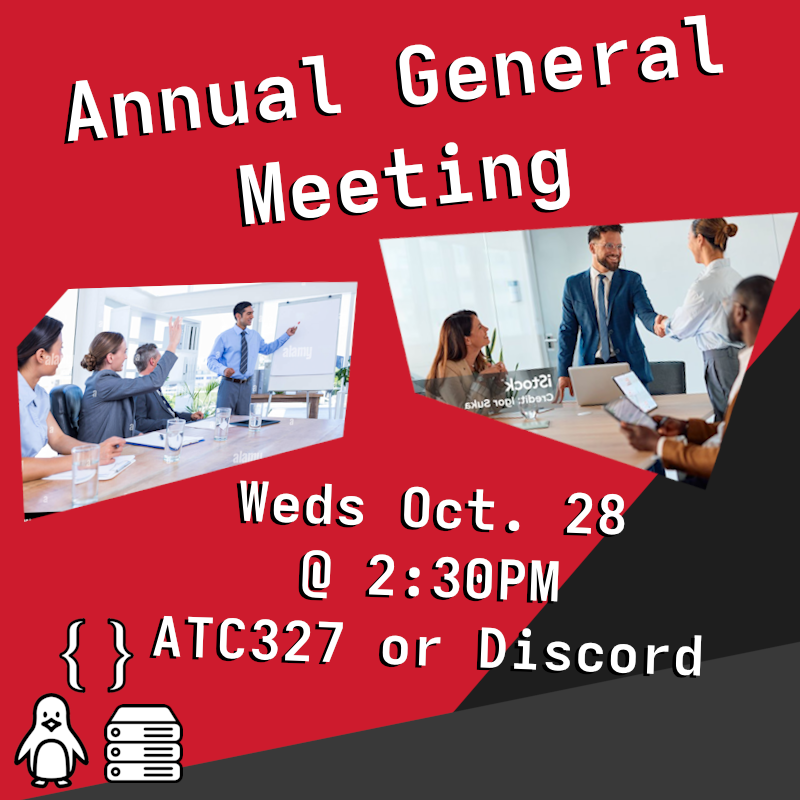
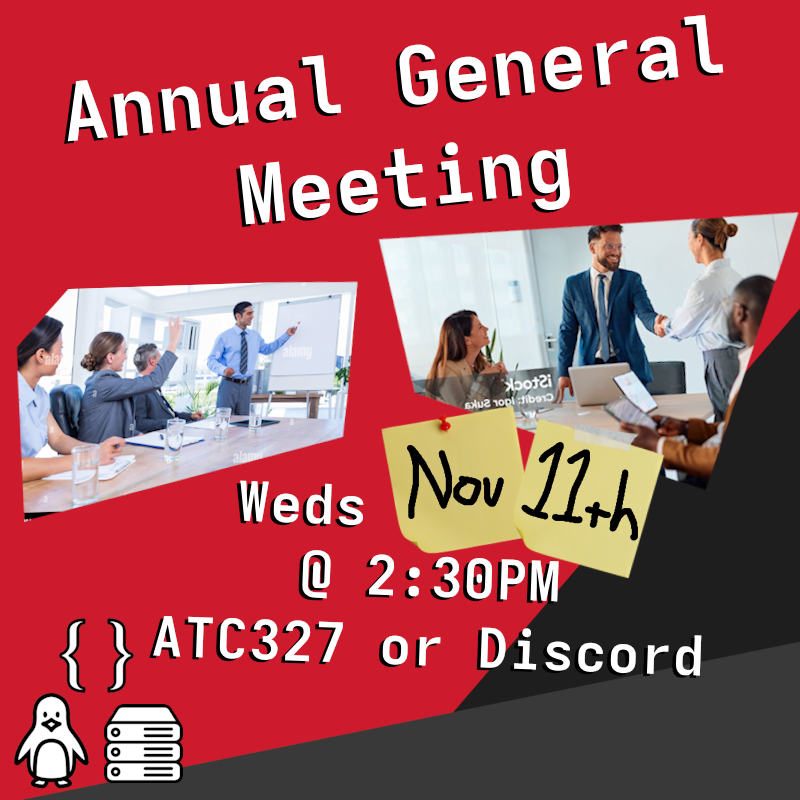
Fix AGM Dates

Changed region(s): [[0.4688, 0.5, 0.8438, 0.7188]]

diff --git a/content/posts/2026/oct-28-annual-general-meeting-announce/index.md b/content/posts/2026/oct-28-annual-general-meeting-announce/index.md
@@ -21,7 +21,7 @@ You can nominate yourself for the following positions:
 - Treasurer
 - Secretary
 
-Date: Wednesday 28th October
+Date: Wednesday 11th November
 Time: 2:30 - 4:30 PM
 Location: ATC327 or online via Discord
 
